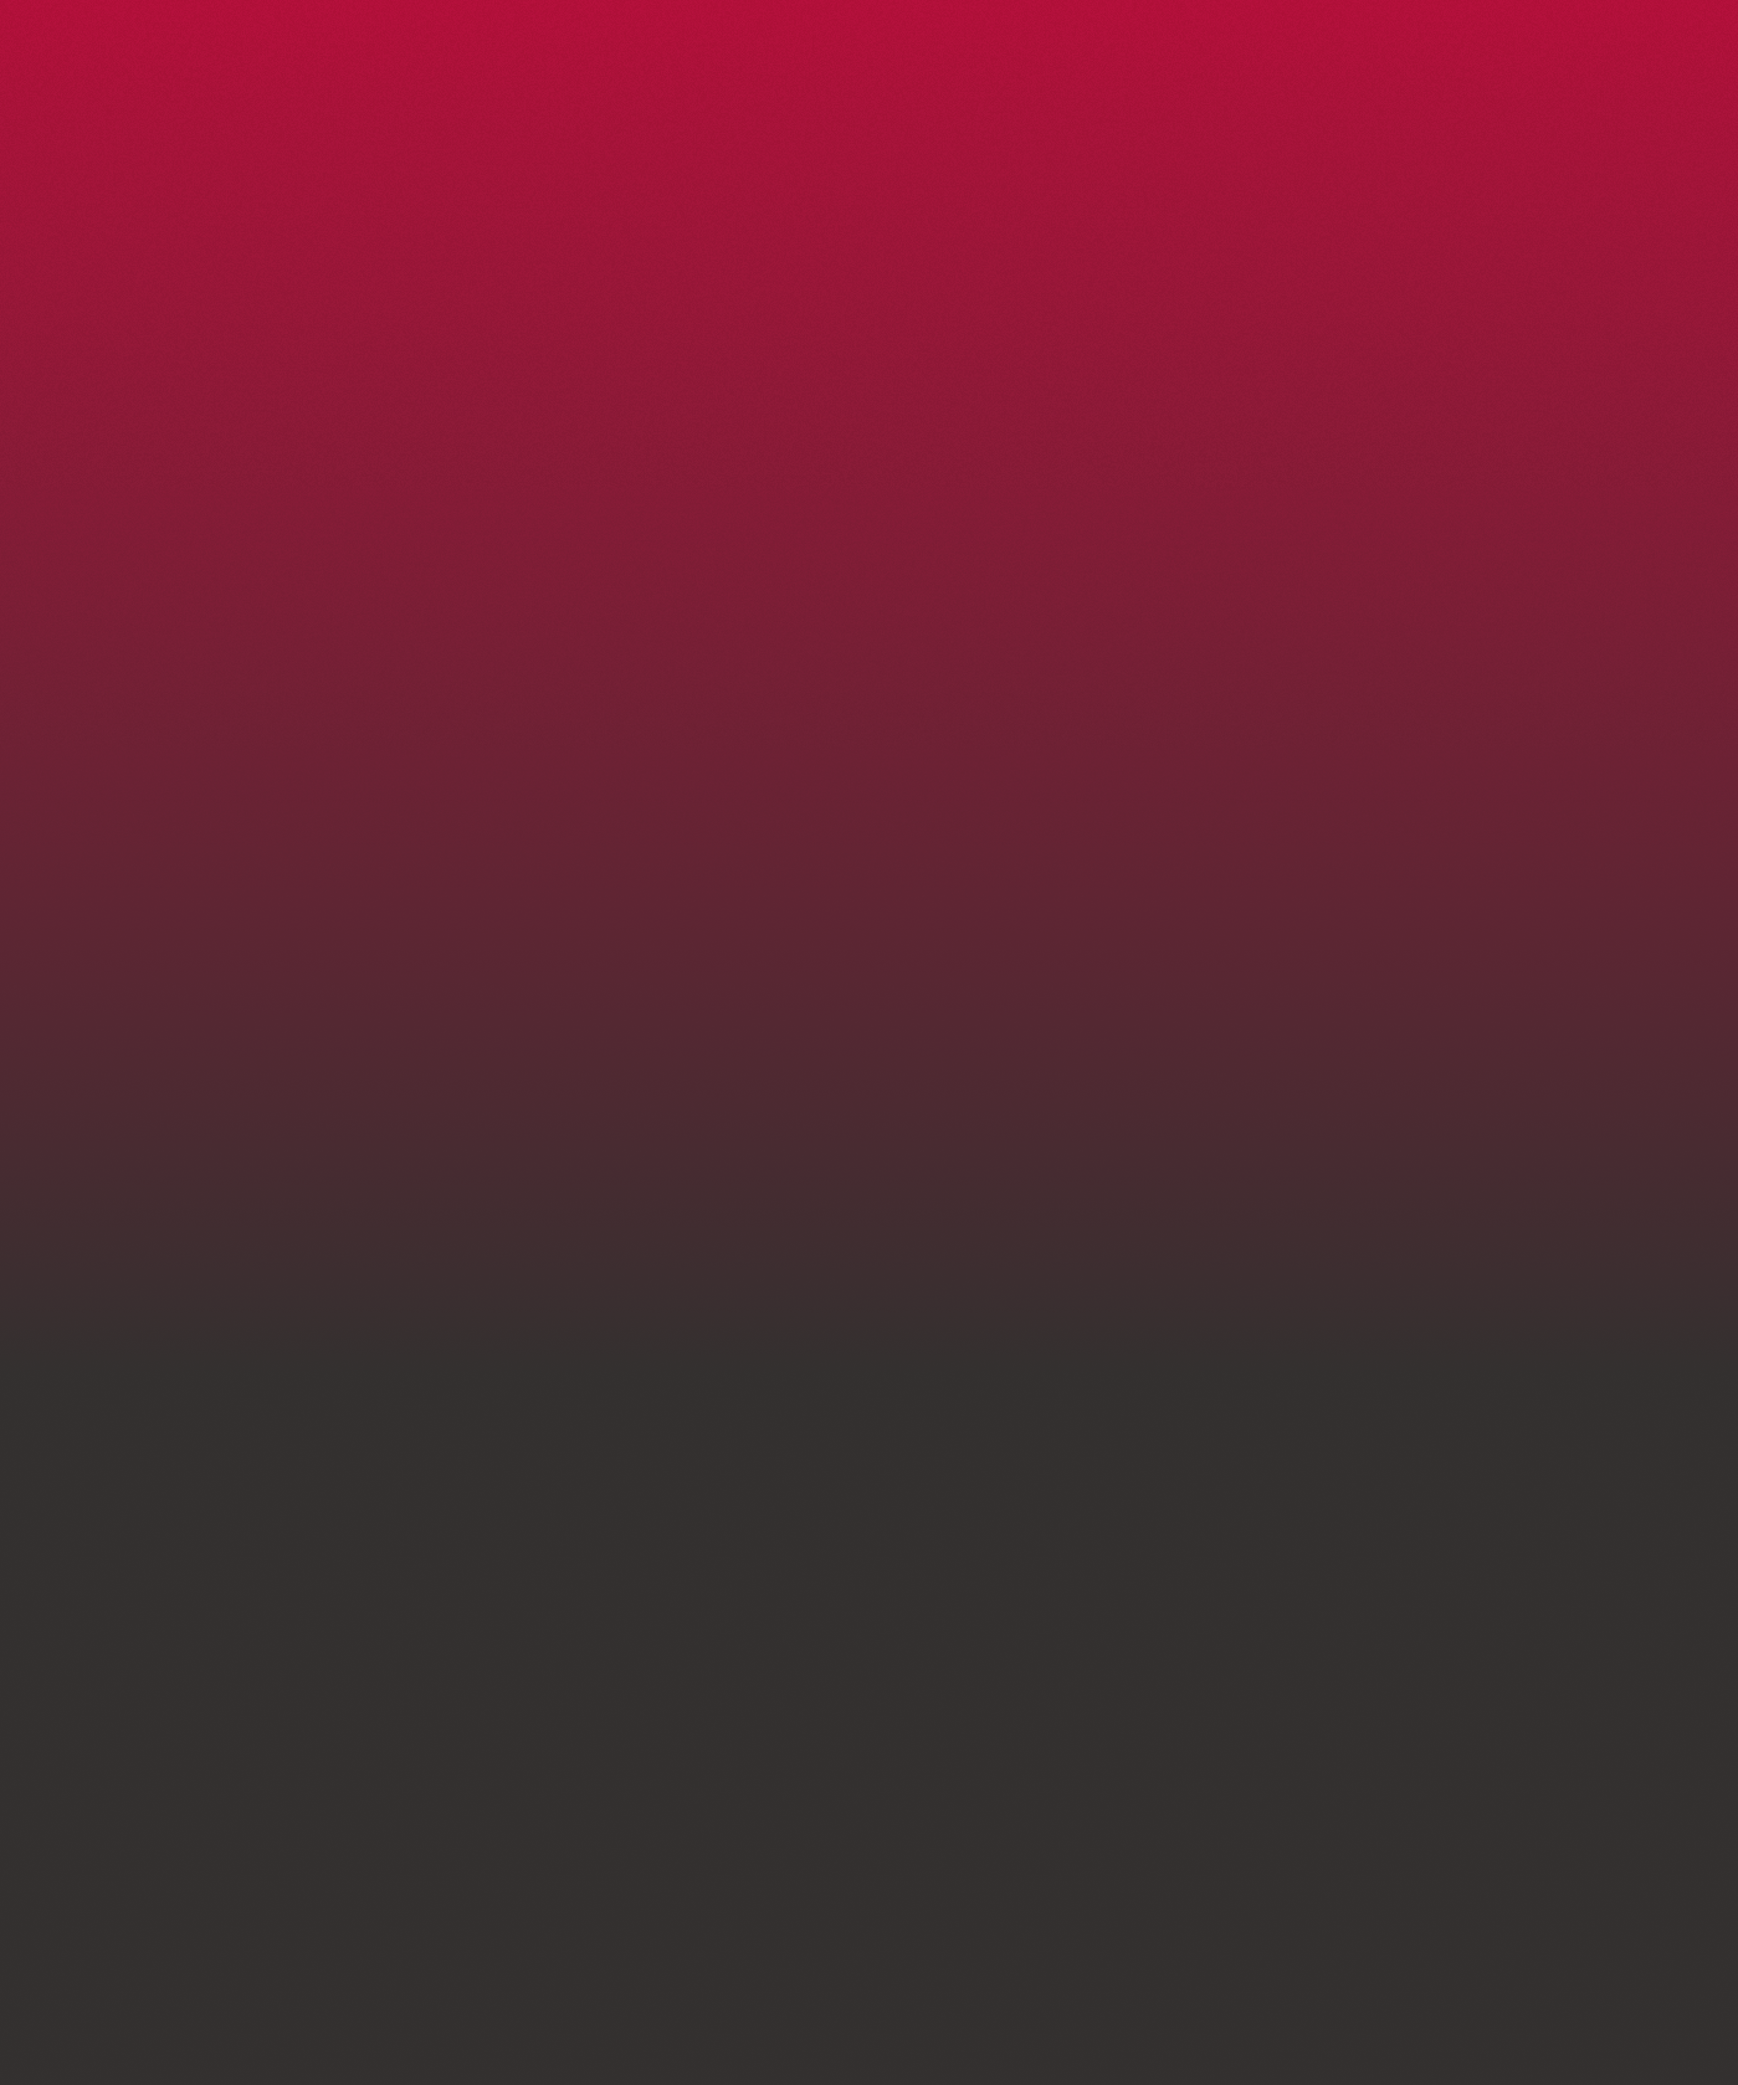
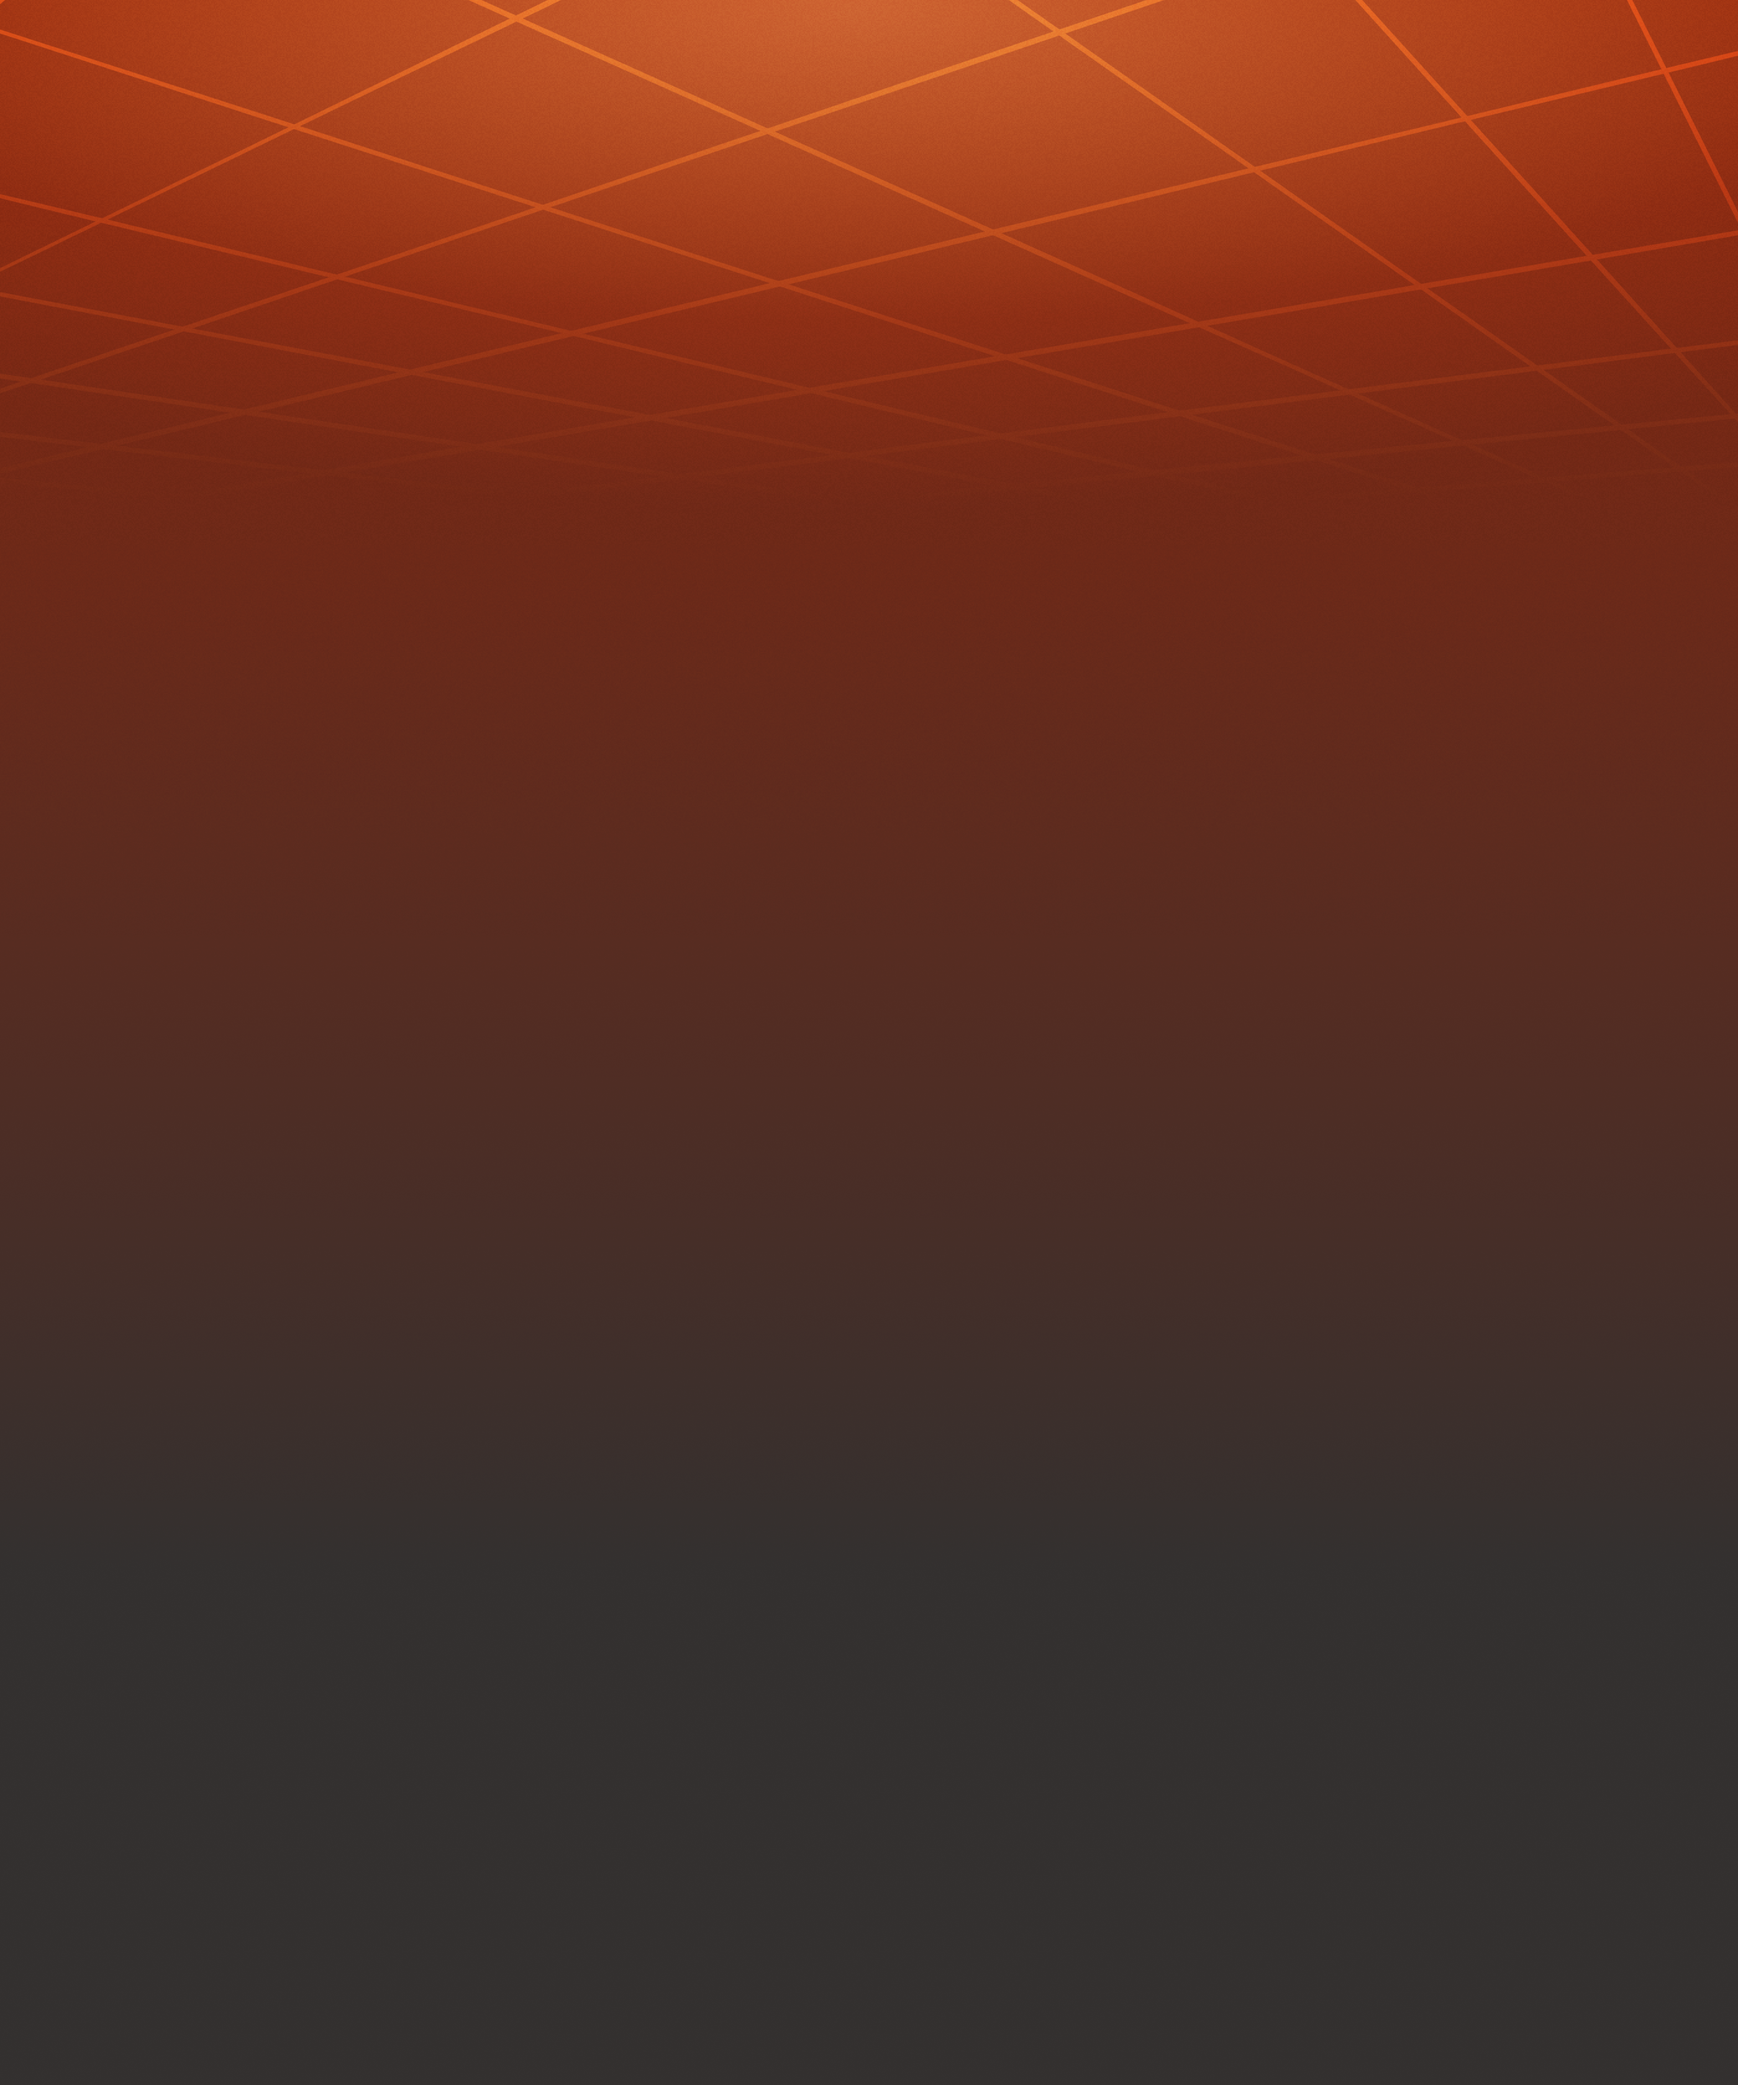
checkpoint - tried out a lot of different splash bg images

diff --git a/my-app/src/App.tsx b/my-app/src/App.tsx
@@ -16,7 +16,6 @@ import ctaBackground from './assets/images/BG image - Footer.jpg'
 import nextImageIcon from './assets/Icons/Next Image Button.png'
 import previousImageIcon from './assets/Icons/Next Image Button (Left).png'
 import downArrow from './assets/Icons/Downward arrow.png'
-import darkerDownArrow from './assets/Icons/Darker Downward arrow.png'
 import upArrow from './assets/Icons/Upward arrow.png'
 import discordIcon from './assets/Icons/Discord icon.png'
 import emailIcon from './assets/Icons/Email icon.png'
@@ -143,7 +142,7 @@ function SplashSection() {
         aria-label="Scroll to key features"
         onClick={() => document.getElementById('what-is-it')?.scrollIntoView({ behavior: 'smooth' })}
       >
-        <img src={darkerDownArrow} alt="" />
+        <img src={downArrow} alt="" />
       </button>
     </section>
   )

diff --git a/my-app/src/App.css b/my-app/src/App.css
@@ -411,6 +411,7 @@ p {
   grid-template-columns: repeat(4, 1fr);
   gap: 24px;
   transform: translateX(-50%);
+  color: var(--accent-secondary);
   font-family: 'Girassol', serif;
   font-size: 21px;
   text-align: center;
